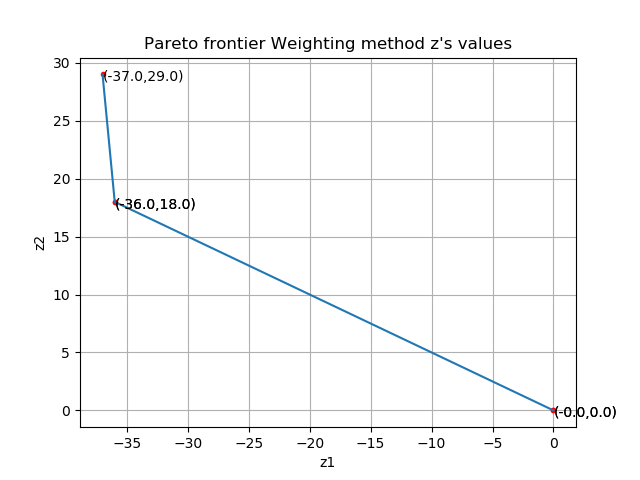
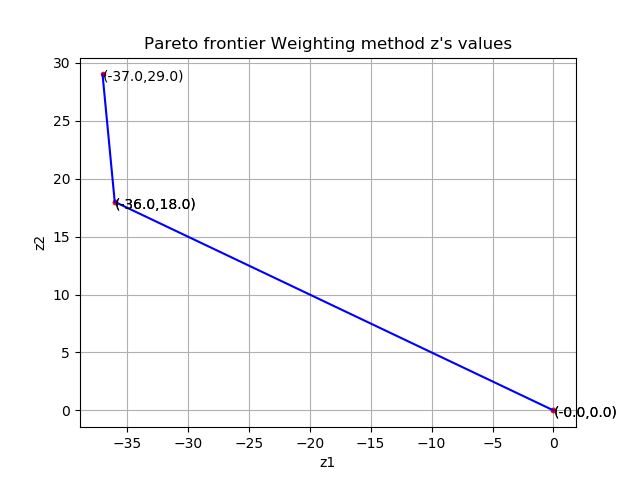
added legend

diff --git a/P2/functions.py b/P2/functions.py
@@ -4,37 +4,36 @@ import matplotlib.pyplot as plt
 
 
 def feasPlot( A, B, x1, x2):
-    Feas1 = [None] + x1
-    Feas2 = [None] + x2
+    Feas1 = [] + x1
+    Feas2 = [] + x2
     for i in range(len(A)):
         t = np.arange(0,len(A),1)
         t = np.delete(t, i)
-        z = np.linalg.solve(A[t],B[t])
-        temp = A[i,0]*z[0]+A[i,1]*z[1]-B[i]
+        x = np.linalg.solve(A[t],B[t])
+        temp = A[i,0]*x[0]+A[i,1]*x[1]-B[i]
         if temp <= 0:
-            Feas1 = np.append(Feas1, z[0])
-            Feas2 = np.append(Feas2, z[1])
+            Feas1 = np.append(Feas1, x[0])
+            Feas2 = np.append(Feas2, x[1])
     for j in range(1):
         for i in range(len(A)):
-            z = np.array([0.,0.])
-            z[j] = B[i]/A[i,j]
-            temp = A[0:,0]*z[0]+A[0:,1]*z[1]-B
+            x = np.array([0.,0.])
+            x[j] = B[i]/A[i,j]
+            temp = A[0:,0]*x[0]+A[0:,1]*x[1]-B
             if temp[0] <= 0 and temp[1] <= 0 and temp[2] <= 0:
-                Feas1 = np.append(Feas1, z[0])
-                Feas2 = np.append(Feas2, z[1])
+                Feas1 = np.append(Feas1, x[0])
+                Feas2 = np.append(Feas2, x[1])
     fig1, ax1 = plt.subplots()
-    Feas1 = np.delete(Feas1, 0)
-    Feas2 = np.delete(Feas2, 0)
     s = np.argsort(Feas1)
     s = np.append(s,0)
     Feas1 = np.array(Feas1)
     Feas2 = np.array(Feas2)
     ax1.plot(Feas1[s],Feas2[s],'*k')
-    ax1.plot(Feas1[s],Feas2[s],'k',linewidth=1.5)
-    ax1.set_title('Feasible region')
+    ax1.plot(Feas1[s],Feas2[s],'k', linewidth=1.5, label = 'Feasible region')
+    ax1.set_title('Solution to bi-objective linear optimization problem using weighting method')
     ax1.set_xlabel('x1')
     ax1.set_ylabel('x2')
     ax1.grid(True)
-    #plt.savefig('test.png')
+    plt.savefig('test.png')
+
     return (fig1, ax1)
   

diff --git a/P2/main_weighting.py b/P2/main_weighting.py
@@ -59,12 +59,13 @@ b = np.array(arr[:,3], dtype='float')
 
 fig1, ax1 = feasPlot(a,b,x1,x2)
 
-ax1.plot(x1,x2,'*r')
-ax1.plot(x1,x2,'b')
+ax1.plot(x1,x2,'*r', label = 'Pareto solution')
+ax1.plot(x1,x2,'b', label = 'Pareto frontier')
 #ax1.set_title('Pareto frontier Weighting method x\'s values')
 ax1.set_xlabel('x1')
 ax1.set_ylabel('x2')
 ax1.grid(True)
+plt.legend()
 
 for x,y in zip(x1,x2):
     label = "(" + "{:.1f}".format(x) + "," + "{:.1f}".format(y) + ")"
